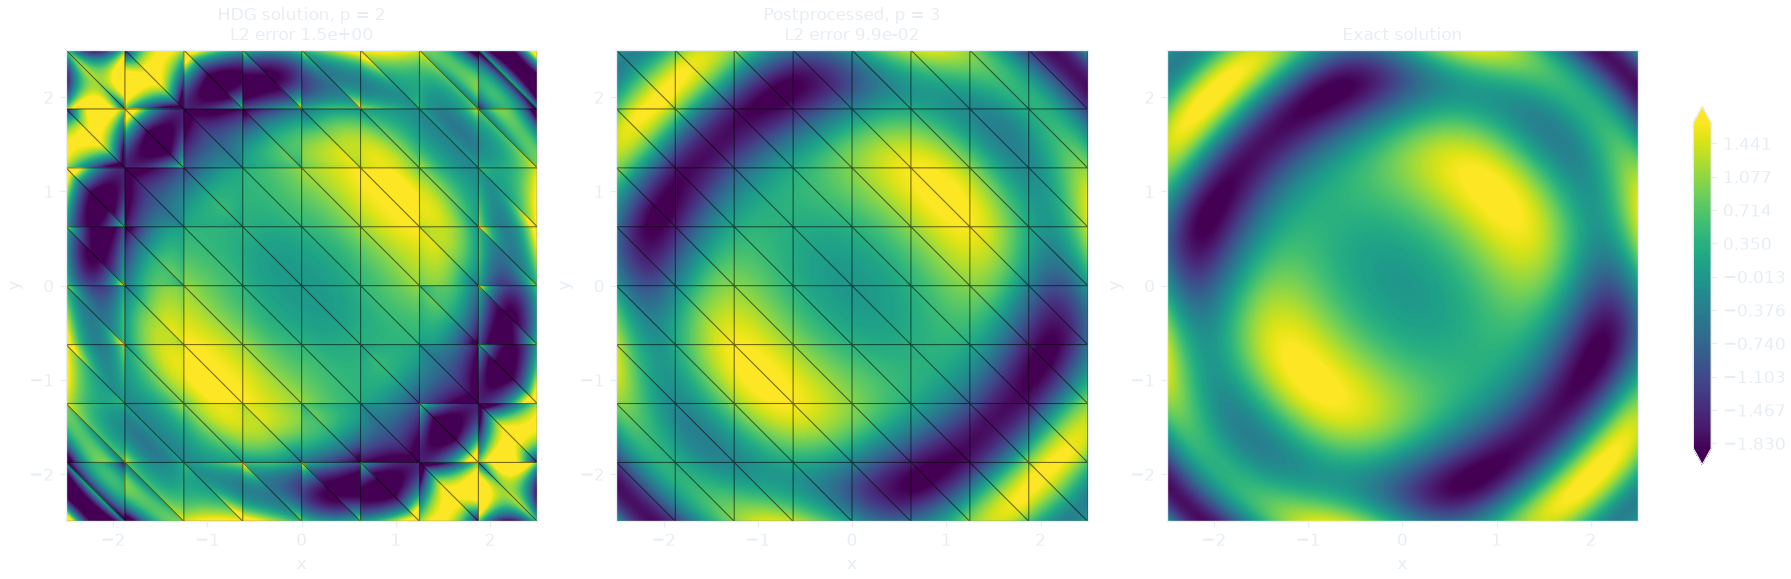
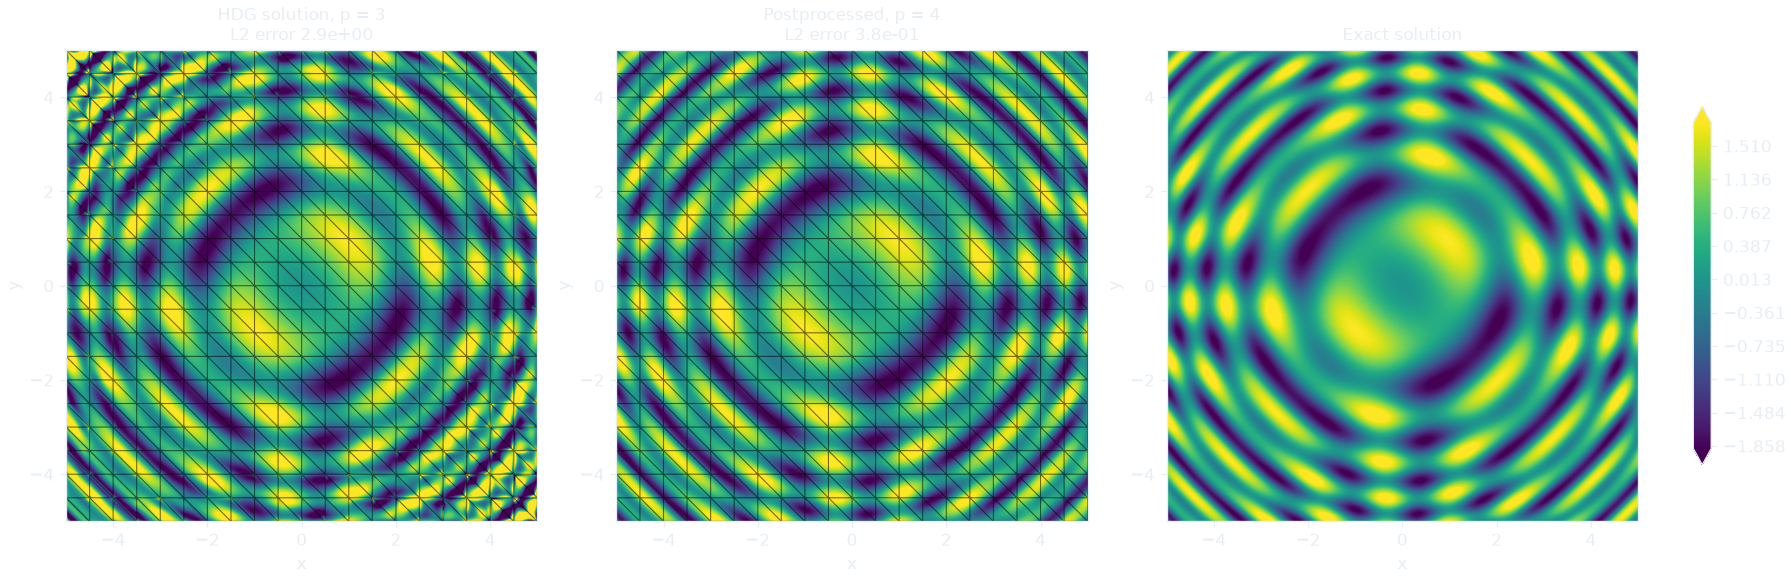
README: first solve at p = 3 on [-5, 5]^2; installation before features
- The first solve is the trigonometric Poisson problem on [-5, 5]^2 with a
  20x20 mesh (800 triangles), p = 3, and its p = 4 postprocessing (L2
  errors 2.9 and 0.38). It sets stabilization=1.: on this domain the
  default global-length tau (about 0.2) leaves u_h far less accurate, while
  the postprocessed field barely changes. Coarser meshes leave even the
  postprocessed field unresolved in the corners, where r reaches 7.
- The caption under the figure just says it corresponds to the example.
- plot_solution_comparison gains backend="auto" | "matplotlib" | "pyvista";
  the README requests Matplotlib for its 800-triangle figure.
- Installation now comes before "What you can build".

diff --git a/hybridge/io/plot.py b/hybridge/io/plot.py
@@ -1012,6 +1012,7 @@ def _plot_postprocessed_comparison(
         show: bool,
         off_screen: bool,
         window_size: tuple[int, int],
+        use_matplotlib: bool,
 ):
     """Plot the HDG solution, its postprocessed field and the exact solution on one scale."""
     mesh = field.space.mesh
@@ -1033,7 +1034,7 @@ def _plot_postprocessed_comparison(
         f"L2 error {postprocessed.l2_error(exact_solution):.1e}",
         "Exact solution",
     )
-    if mesh.num_tri <= 130:
+    if use_matplotlib:
         return plot_scalar_sample_panels_matplotlib(
             mesh,
             (
@@ -1107,6 +1108,7 @@ def plot_solution_comparison(
         show: bool = True,
         off_screen: bool = False,
         window_size: tuple[int, int] = (1800, 650),
+        backend: str = "auto",
 ):
     """Plot numerical solution, exact solution, and absolute error.
 
@@ -1122,7 +1124,13 @@ def plot_solution_comparison(
     ``hdg_postprocess="primal"``), the panels are the HDG solution, the
     postprocessed field and the exact solution, on one color scale, each
     numerical panel titled with its L2 error.
+
+    ``backend`` is ``"matplotlib"``, ``"pyvista"``, or ``"auto"`` (Matplotlib
+    for meshes of at most 130 triangles, PyVista otherwise).
     """
+    if backend not in ("auto", "matplotlib", "pyvista"):
+        raise ValueError("backend must be 'auto', 'matplotlib' or 'pyvista'")
+    use_matplotlib = backend == "matplotlib" or (backend == "auto" and field.space.mesh.num_tri <= 130)
     if postprocessed is not None:
         return _plot_postprocessed_comparison(
             field,
@@ -1135,6 +1143,7 @@ def plot_solution_comparison(
             show=show,
             off_screen=off_screen,
             window_size=window_size,
+            use_matplotlib=use_matplotlib,
         )
     reference_points, physical_points, numerical_values = sample_field_on_elements(
         field,
@@ -1158,7 +1167,7 @@ def plot_solution_comparison(
         exact_solution,
         resolution=exact_panel_resolution,
     )
-    if field.space.mesh.num_tri <= 130:
+    if use_matplotlib:
         return plot_scalar_sample_panels_matplotlib(
             field.space.mesh,
             (

diff --git a/README.md b/README.md
@@ -38,6 +38,37 @@ step, at 0.74 s per time step, including rendering, on one NVIDIA RTX PRO 5000
 Blackwell. The total charge changes by 2.2e-13 and the energy drifts by 2.9e-4,
 while 29.9% of the enstrophy is dissipated as filaments reach the grid.*
 
+## Installation
+
+From a checkout, with Python 3.10 or newer:
+
+```bash
+python -m venv .venv
+source .venv/bin/activate
+python -m pip install --upgrade pip
+python -m pip install -e '.[mesh,plot]'
+```
+
+The base package needs NumPy, SciPy, and Numba; `python -m pip install .`
+installs only those, which is enough for the [first solve](#a-first-solve-on-the-cpu).
+The command above adds Gmsh for geometry and Matplotlib/PyVista for plotting.
+Optional runtimes depend on the workflow:
+
+| Workflow | Runtime and setup |
+|---|---|
+| Large CPU direct solves | [PyPardiso / oneMKL](MANUAL.md#pypardiso-host-direct-solver) |
+| GPU solves | Linux, CUDA 13, CuPy, and the [forked AMGX/PyAMGX stack](docs/getting_started/forked_amgx_stack.md), connected as in the [GPU runtime guide](docs/getting_started/installation.md#gpu-runtime) |
+| Live GPU visualization | [NVIDIA Holoviz](docs/backends/holoviz.md) (`holoviz` extra) |
+| PETSc solves | [PETSc and petsc4py](MANUAL.md#petsc) |
+
+The GPU solves use our forks of [NVIDIA AMGX](https://github.com/adelsaleh/AMGX/tree/hdg-cuda13-integration)
+and [PyAMGX](https://github.com/adelsaleh/pyamgx/tree/quality-of-life), which
+add HDG block systems and GPU diagnostics. The
+[fork setup guide](docs/getting_started/forked_amgx_stack.md) lists the tested
+revisions and build steps. Importing `hybridge` needs none of the optional
+runtimes; the [installation guide](docs/getting_started/installation.md) covers
+every dependency group.
+
 ## What you can build
 
 The library provides three complementary PDE solvers:
@@ -74,40 +105,9 @@ polynomial degree, and requested recovery. The
 combinations, and the [numerical formulations](docs/algorithms/README.md)
 explain the discretizations.
 
-## Installation
-
-From a checkout, with Python 3.10 or newer:
-
-```bash
-python -m venv .venv
-source .venv/bin/activate
-python -m pip install --upgrade pip
-python -m pip install -e '.[mesh,plot]'
-```
-
-The base package needs NumPy, SciPy, and Numba; `python -m pip install .`
-installs only those, which is enough for the [first solve](#a-first-solve-on-the-cpu).
-The command above adds Gmsh for geometry and Matplotlib/PyVista for plotting.
-Optional runtimes depend on the workflow:
-
-| Workflow | Runtime and setup |
-|---|---|
-| Large CPU direct solves | [PyPardiso / oneMKL](MANUAL.md#pypardiso-host-direct-solver) |
-| GPU solves | Linux, CUDA 13, CuPy, and the [forked AMGX/PyAMGX stack](docs/getting_started/forked_amgx_stack.md), connected as in the [GPU runtime guide](docs/getting_started/installation.md#gpu-runtime) |
-| Live GPU visualization | [NVIDIA Holoviz](docs/backends/holoviz.md) (`holoviz` extra) |
-| PETSc solves | [PETSc and petsc4py](MANUAL.md#petsc) |
-
-The GPU solves use our forks of [NVIDIA AMGX](https://github.com/adelsaleh/AMGX/tree/hdg-cuda13-integration)
-and [PyAMGX](https://github.com/adelsaleh/pyamgx/tree/quality-of-life), which
-add HDG block systems and GPU diagnostics. The
-[fork setup guide](docs/getting_started/forked_amgx_stack.md) lists the tested
-revisions and build steps. Importing `hybridge` needs none of the optional
-runtimes; the [installation guide](docs/getting_started/installation.md) covers
-every dependency group.
-
 ## A first solve on the CPU
 
-A manufactured Poisson problem on the square [-2.5, 2.5]². The solve needs only the
+A manufactured Poisson problem on the square [-5, 5]². The solve needs only the
 base installation; the plot also needs the `plot` extra:
 
 ```python
@@ -115,29 +115,25 @@ import numpy as np
 from hybridge import DGSpace, rectangle_mesh, solve_diffusion_reaction_hdg
 from hybridge.io import plot_solution_comparison
 
-mesh = rectangle_mesh(8, 8, xlim=(-2.5, 2.5), ylim=(-2.5, 2.5))
-space = DGSpace(mesh, 2, basis_type="dub_orth")
+mesh = rectangle_mesh(20, 20, xlim=(-5., 5.), ylim=(-5., 5.))
+space = DGSpace(mesh, 3, basis_type="dub_orth")
 exact = lambda x, y: np.sin(x**2 + y**2) + np.sin(x*y)
 source = lambda x, y: ((x**2 + y**2) * (4*np.sin(x**2 + y**2) + np.sin(x*y))
                        - 4*np.cos(x**2 + y**2))     # -Δu = source, u = exact on the boundary.
 
 result = solve_diffusion_reaction_hdg(
-    source, lambda x, y: 0.*x, exact, space, solver="direct", preconditioner=None,
-    boundary_mode="eliminate", hdg_postprocess="primal", verbose=False)
+    source, lambda x, y: 0.*x, exact, space, stabilization=1., solver="direct",
+    preconditioner=None, boundary_mode="eliminate", hdg_postprocess="primal", verbose=False)
 print(f"L2 error {result.field.l2_error(exact):.1e} on {mesh.num_tri} triangles")
 print(f"after postprocessing {result.postprocessed_field.l2_error(exact):.1e}")
 plot_solution_comparison(result.field, exact, postprocessed=result.postprocessed_field,
-                         exact_resolution=40)
+                         exact_resolution=24, backend="matplotlib")
 ```
 
 ![HDG solution, postprocessed field and exact solution](docs/getting_started/media/first_solve_light.png#gh-light-mode-only)
 ![HDG solution, postprocessed field and exact solution](docs/getting_started/media/first_solve_dark.png#gh-dark-mode-only)
 
-On this deliberately coarse mesh the degree-2 solution misses the outer ring
-and jumps between elements, with an L2 error of 1.5. Postprocessing recovers,
-element by element, a degree-3 field from the solution and the HDG flux: its
-error is 0.099, 15 times smaller, and it converges one order faster (h⁴ instead
-of h³). This completes the HDG pipeline. The
+The figure corresponds to the example above. The
 [minimal examples](MANUAL.md#minimal-end-to-end-examples) add
 advection and an independent residual check; run them with
 `python examples/diffusion_reaction_minimal.py` and
